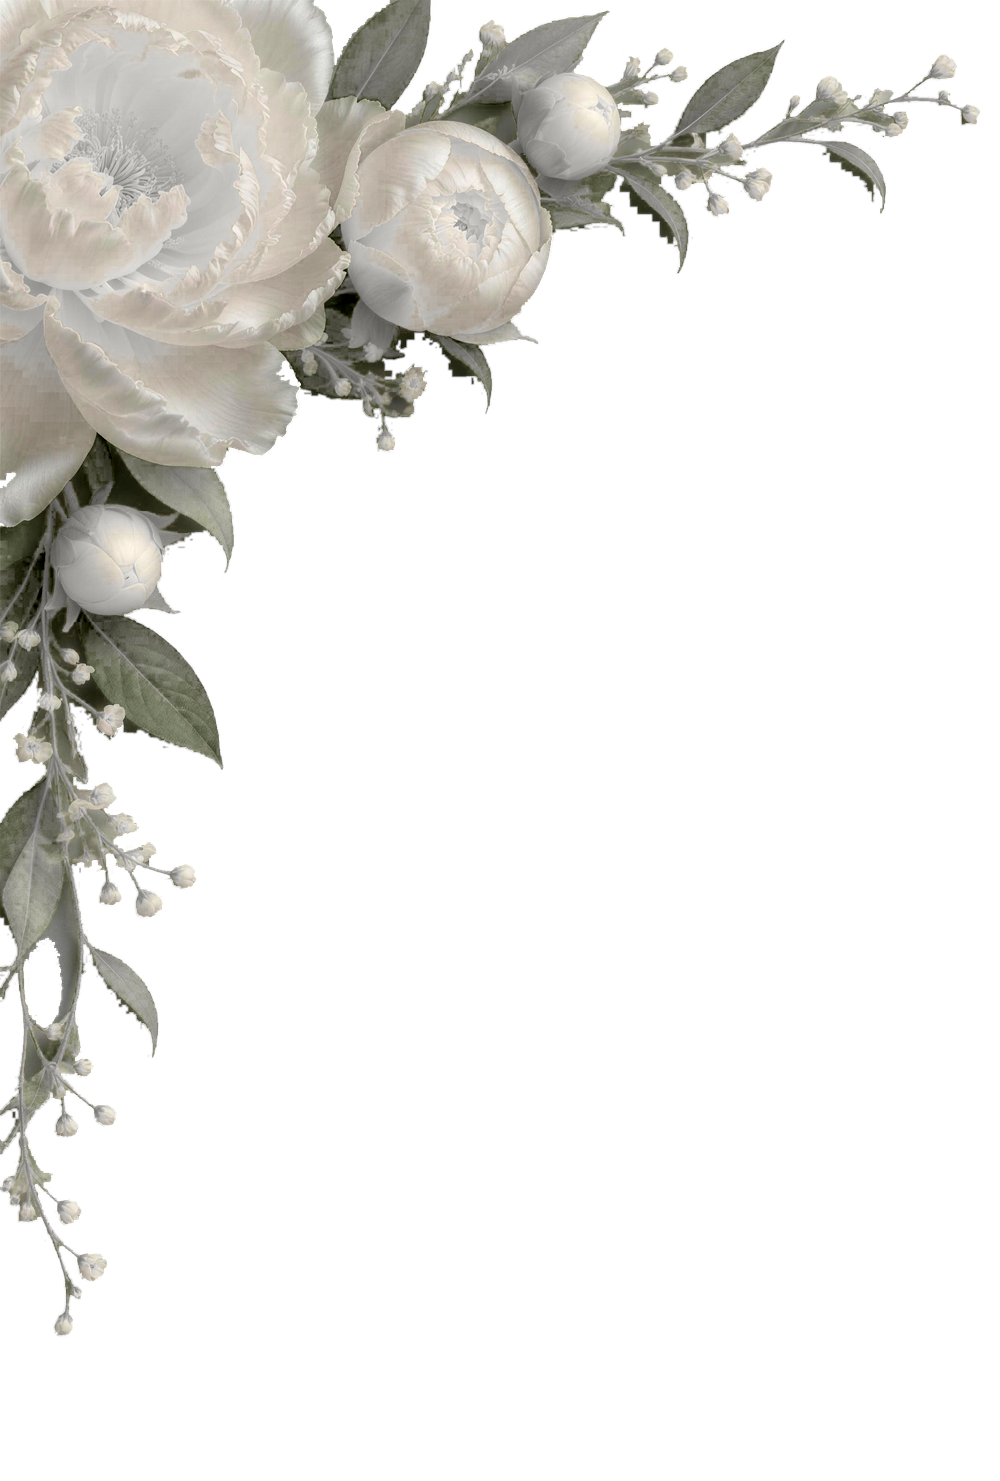
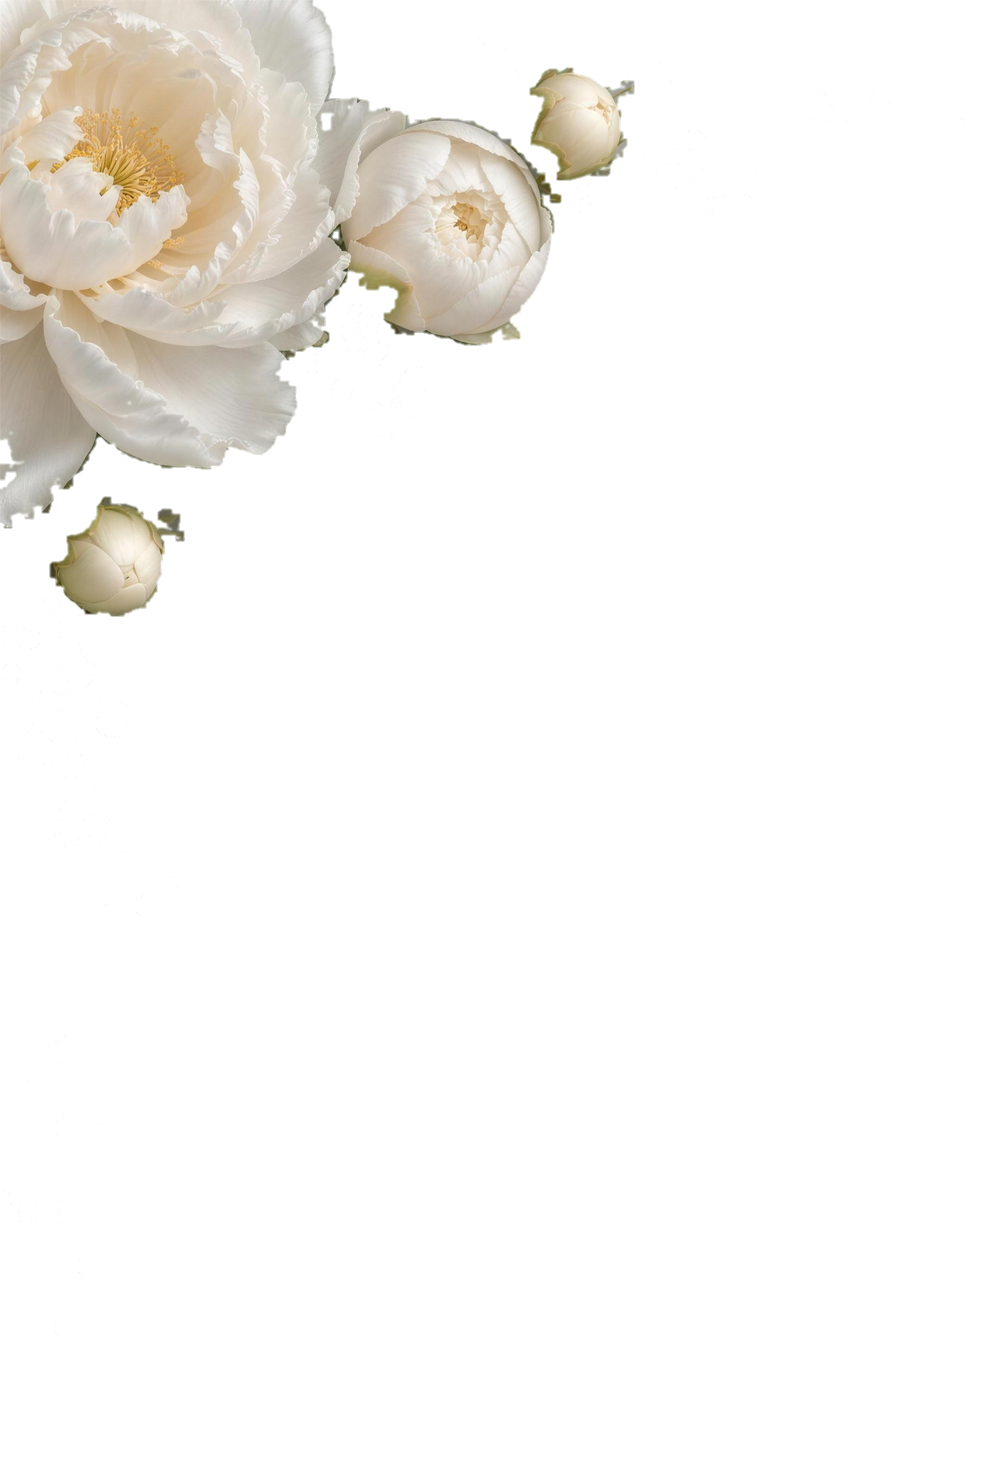
Real white peonies without foliage, simpler hero, adults-only RSVP
- Flowers: back to the original photographed peonies; green leaves and
  stems removed (scripts/remove-leaves.mjs), keeping blooms, buds and
  berries as photographed
- Hero: removed the date and venues line at the couple's request; both
  remain in When & Where
- RSVP: adults only. Kids' Meal removed from the form, server validation
  and schema; the RSVP section states the adults-only request

Changed region(s): [[0.0, 0.0, 0.527, 0.9007], [0.279, 0.0, 0.992, 0.1864]]

diff --git a/components/RsvpForm.tsx b/components/RsvpForm.tsx
@@ -14,7 +14,6 @@ const SUBMIT_ERRORS: Record<Exclude<SubmitResult, { ok: true }>["error"], string
   limited: "Too many attempts in a short time. Please wait a minute and try again.",
   not_found: "We couldn't find your invitation any more. Please search for your name again.",
   too_many: "That is more guests than the seats reserved for your party.",
-  kids_not_allowed: "The Kids' Meal isn't available for this invitation. Please choose another meal.",
 };
 
 const mealLabel = (m: string) => MEALS.find((x) => x.value === m)?.label ?? m;
@@ -358,7 +357,7 @@ export function RsvpForm({ initialInvite = null, closed = false }: { initialInvi
 
   // ---------- Steps 1–4: the reply ----------
   const seats = invite.max_guests;
-  const meals = MEALS.filter((m) => m.value !== "kids" || invite.kids_allowed);
+  const meals = MEALS;
 
   return (
     <form onSubmit={onSubmit} noValidate className="step-enter grid gap-8" aria-busy={pending}>
@@ -402,7 +401,7 @@ export function RsvpForm({ initialInvite = null, closed = false }: { initialInvi
           <fieldset className="grid gap-4">
             <legend className="step-heading mb-2 w-full">How many guests will be attending?</legend>
             <p className="step-note mt-0 mb-2">
-              We have reserved {seats} {seats === 1 ? "seat" : "seats"} in your honour.
+              We have reserved {seats} {seats === 1 ? "seat" : "seats"} in your honour. Our celebration is adults only.
             </p>
             {seats > 1 ? (
               <div className="count-group">

diff --git a/components/Hero.tsx b/components/Hero.tsx
@@ -1,6 +1,9 @@
 import { HeroMotion } from "./HeroMotion";
 
-/** Full-screen opening. Wording is the invitation's, verbatim and in order (PROJECT_BRIEF.md §2). */
+/**
+ * Full-screen opening, in the invitation's wording. The date and venues line was removed at the
+ * couple's request; both appear in When & Where below.
+ */
 export function Hero() {
   let i = 0;
   const rise = (extra = "") => ({ className: `rise ${extra}`.trim(), style: { "--i": i++ } as React.CSSProperties });
@@ -18,21 +21,7 @@ export function Hero() {
           <span {...rise()}>Marko Pupavac</span>
         </h1>
 
-        <p {...rise("hero-lead")}>invite you to join them as they celebrate their marriage on</p>
-
-        <div {...rise()}>
-          <div className="hero-rule" aria-hidden="true" />
-          <p className="hero-date">
-            Saturday, May 15<span className="ord">th</span>, 2027
-          </p>
-          <p className="hero-venues">
-            <span>St. Sava Serbian Orthodox Church</span>
-            <span className="dot" aria-hidden="true">
-              ·
-            </span>
-            <span>Château Le Jardin</span>
-          </p>
-        </div>
+        <p {...rise("hero-lead")}>invite you to join them as they celebrate their marriage</p>
 
         <div {...rise("hero-actions")}>
           <a className="btn" href="#rsvp">

diff --git a/app/actions.ts b/app/actions.ts
@@ -70,7 +70,7 @@ const SubmitSchema = z.object({
     .array(
       z.object({
         full_name: z.string().trim().min(1, "Please enter a name").max(80),
-        meal: z.enum(["chicken", "beef", "veggie", "kids"]),
+        meal: z.enum(["chicken", "beef", "veggie"]),
         dietary_notes: z.string().trim().max(300).optional().default(""),
       }),
     )
@@ -81,7 +81,7 @@ const SubmitSchema = z.object({
 
 export type SubmitResult =
   | { ok: true; invite: InviteView }
-  | { ok: false; error: "closed" | "invalid" | "limited" | "not_found" | "too_many" | "kids_not_allowed" };
+  | { ok: false; error: "closed" | "invalid" | "limited" | "not_found" | "too_many" };
 
 export async function submitRsvp(input: unknown): Promise<SubmitResult> {
   if (!rsvpOpen()) return { ok: false, error: "closed" };
@@ -96,7 +96,6 @@ export async function submitRsvp(input: unknown): Promise<SubmitResult> {
   const guests = data.attending ? data.guests : [];
   if (data.attending && guests.length < 1) return { ok: false, error: "invalid" };
   if (guests.length > invite.max_guests) return { ok: false, error: "too_many" };
-  if (!invite.kids_allowed && guests.some((g) => g.meal === "kids")) return { ok: false, error: "kids_not_allowed" };
 
   await saveResponse(invite.id, {
     attending: data.attending,

diff --git a/lib/store.ts b/lib/store.ts
@@ -27,12 +27,12 @@ export type RsvpResponse = {
   updated_at: string;
 };
 
-// Test invites (brief §7): single, couple, family with kids, two parties sharing a name,
+// Test invites (brief §7): single, couple, a larger adult party, two parties sharing a name,
 // and Serbian diacritics (Đorđević must also match "Djordjevic").
 const SEED: Invite[] = [
   { id: "inv-1", token: "k7m2q9xw", party_name: "Jelena Marković", aliases: [], email: null, max_guests: 1, kids_allowed: false },
   { id: "inv-2", token: "p4t8z3va", party_name: "Ana & Petar Jovanović", aliases: [], email: null, max_guests: 2, kids_allowed: false },
-  { id: "inv-3", token: "d9r5w1hn", party_name: "The Đorđević Family", aliases: ["Dragan Đorđević", "Mira Đorđević"], email: null, max_guests: 5, kids_allowed: true },
+  { id: "inv-3", token: "d9r5w1hn", party_name: "The Đorđević Family", aliases: ["Dragan Đorđević", "Mira Đorđević"], email: null, max_guests: 4, kids_allowed: false },
   { id: "inv-4", token: "m3n6c8ye", party_name: "Milan & Vesna Nikolić", aliases: [], email: null, max_guests: 2, kids_allowed: false },
   { id: "inv-5", token: "s2f7j4ub", party_name: "Milan Nikolić", aliases: [], email: null, max_guests: 1, kids_allowed: false },
 ];

diff --git a/components/RsvpSection.tsx b/components/RsvpSection.tsx
@@ -12,7 +12,7 @@ export function RsvpSection({ invite = null }: { invite?: InviteView | null }) {
             RSVP
           </h2>
           <p className="section-sub">
-            {closed ? "RSVPs are now closed" : `Please reply by ${RSVP_DEADLINE_LABEL}. Your personal link skips the name search.`}
+            {closed ? "RSVPs are now closed" : `Please reply by ${RSVP_DEADLINE_LABEL}. We kindly ask that our celebration be adults only.`}
           </p>
         </div>
         <div className="card rsvp-card">

diff --git a/lib/wedding.ts b/lib/wedding.ts
@@ -69,7 +69,6 @@ export const MEALS = [
   { value: "chicken", label: "Chicken" },
   { value: "beef", label: "Beef" },
   { value: "veggie", label: "Veggie" },
-  { value: "kids", label: "Kids' Meal" },
 ] as const;
 
 export type Meal = (typeof MEALS)[number]["value"];

diff --git a/PRODUCT.md b/PRODUCT.md
@@ -34,7 +34,7 @@ It is the printed invitation brought to life, not a wedding template: the same w
 
 - Single scrolling page `/` (hero invitation, details, RSVP, footer), `/rsvp/[token]`, `/admin`. No registry, song picker, video page, story, hotel block or dress code unless added to the brief.
 - Seat cap enforced in the UI (stepper/select, never free text) and on the server. One response per invite; resubmitting updates it. Lookup never reveals or enumerates the guest list. Honeypot and rate limiting on lookup and submit.
-- Meals: Chicken, Beef, Veggie, Kids' Meal. **Kids' Meal appears only for invites flagged `kids_allowed`** (confirmed).
+- Meals: Chicken, Beef, Veggie. **The celebration is adults only** (confirmed by the bride, Nov 2026): no Kids' Meal, and the RSVP says so. The `kids_allowed` column is kept in the schema but unused.
 - After the deadline the form becomes read only with a "please contact Linda and Marko directly" message.
 - `noindex, nofollow` sitewide; no analytics or third-party trackers.
 - **Languages: English and Serbian** (confirmed; supersedes the brief's English-only default). All guest-facing copy, form labels, errors, confirmation and emails need both languages. Open: Serbian script (Latin vs Cyrillic), who supplies or approves the Serbian translations, how a guest switches language, and whether `/admin` is translated.
